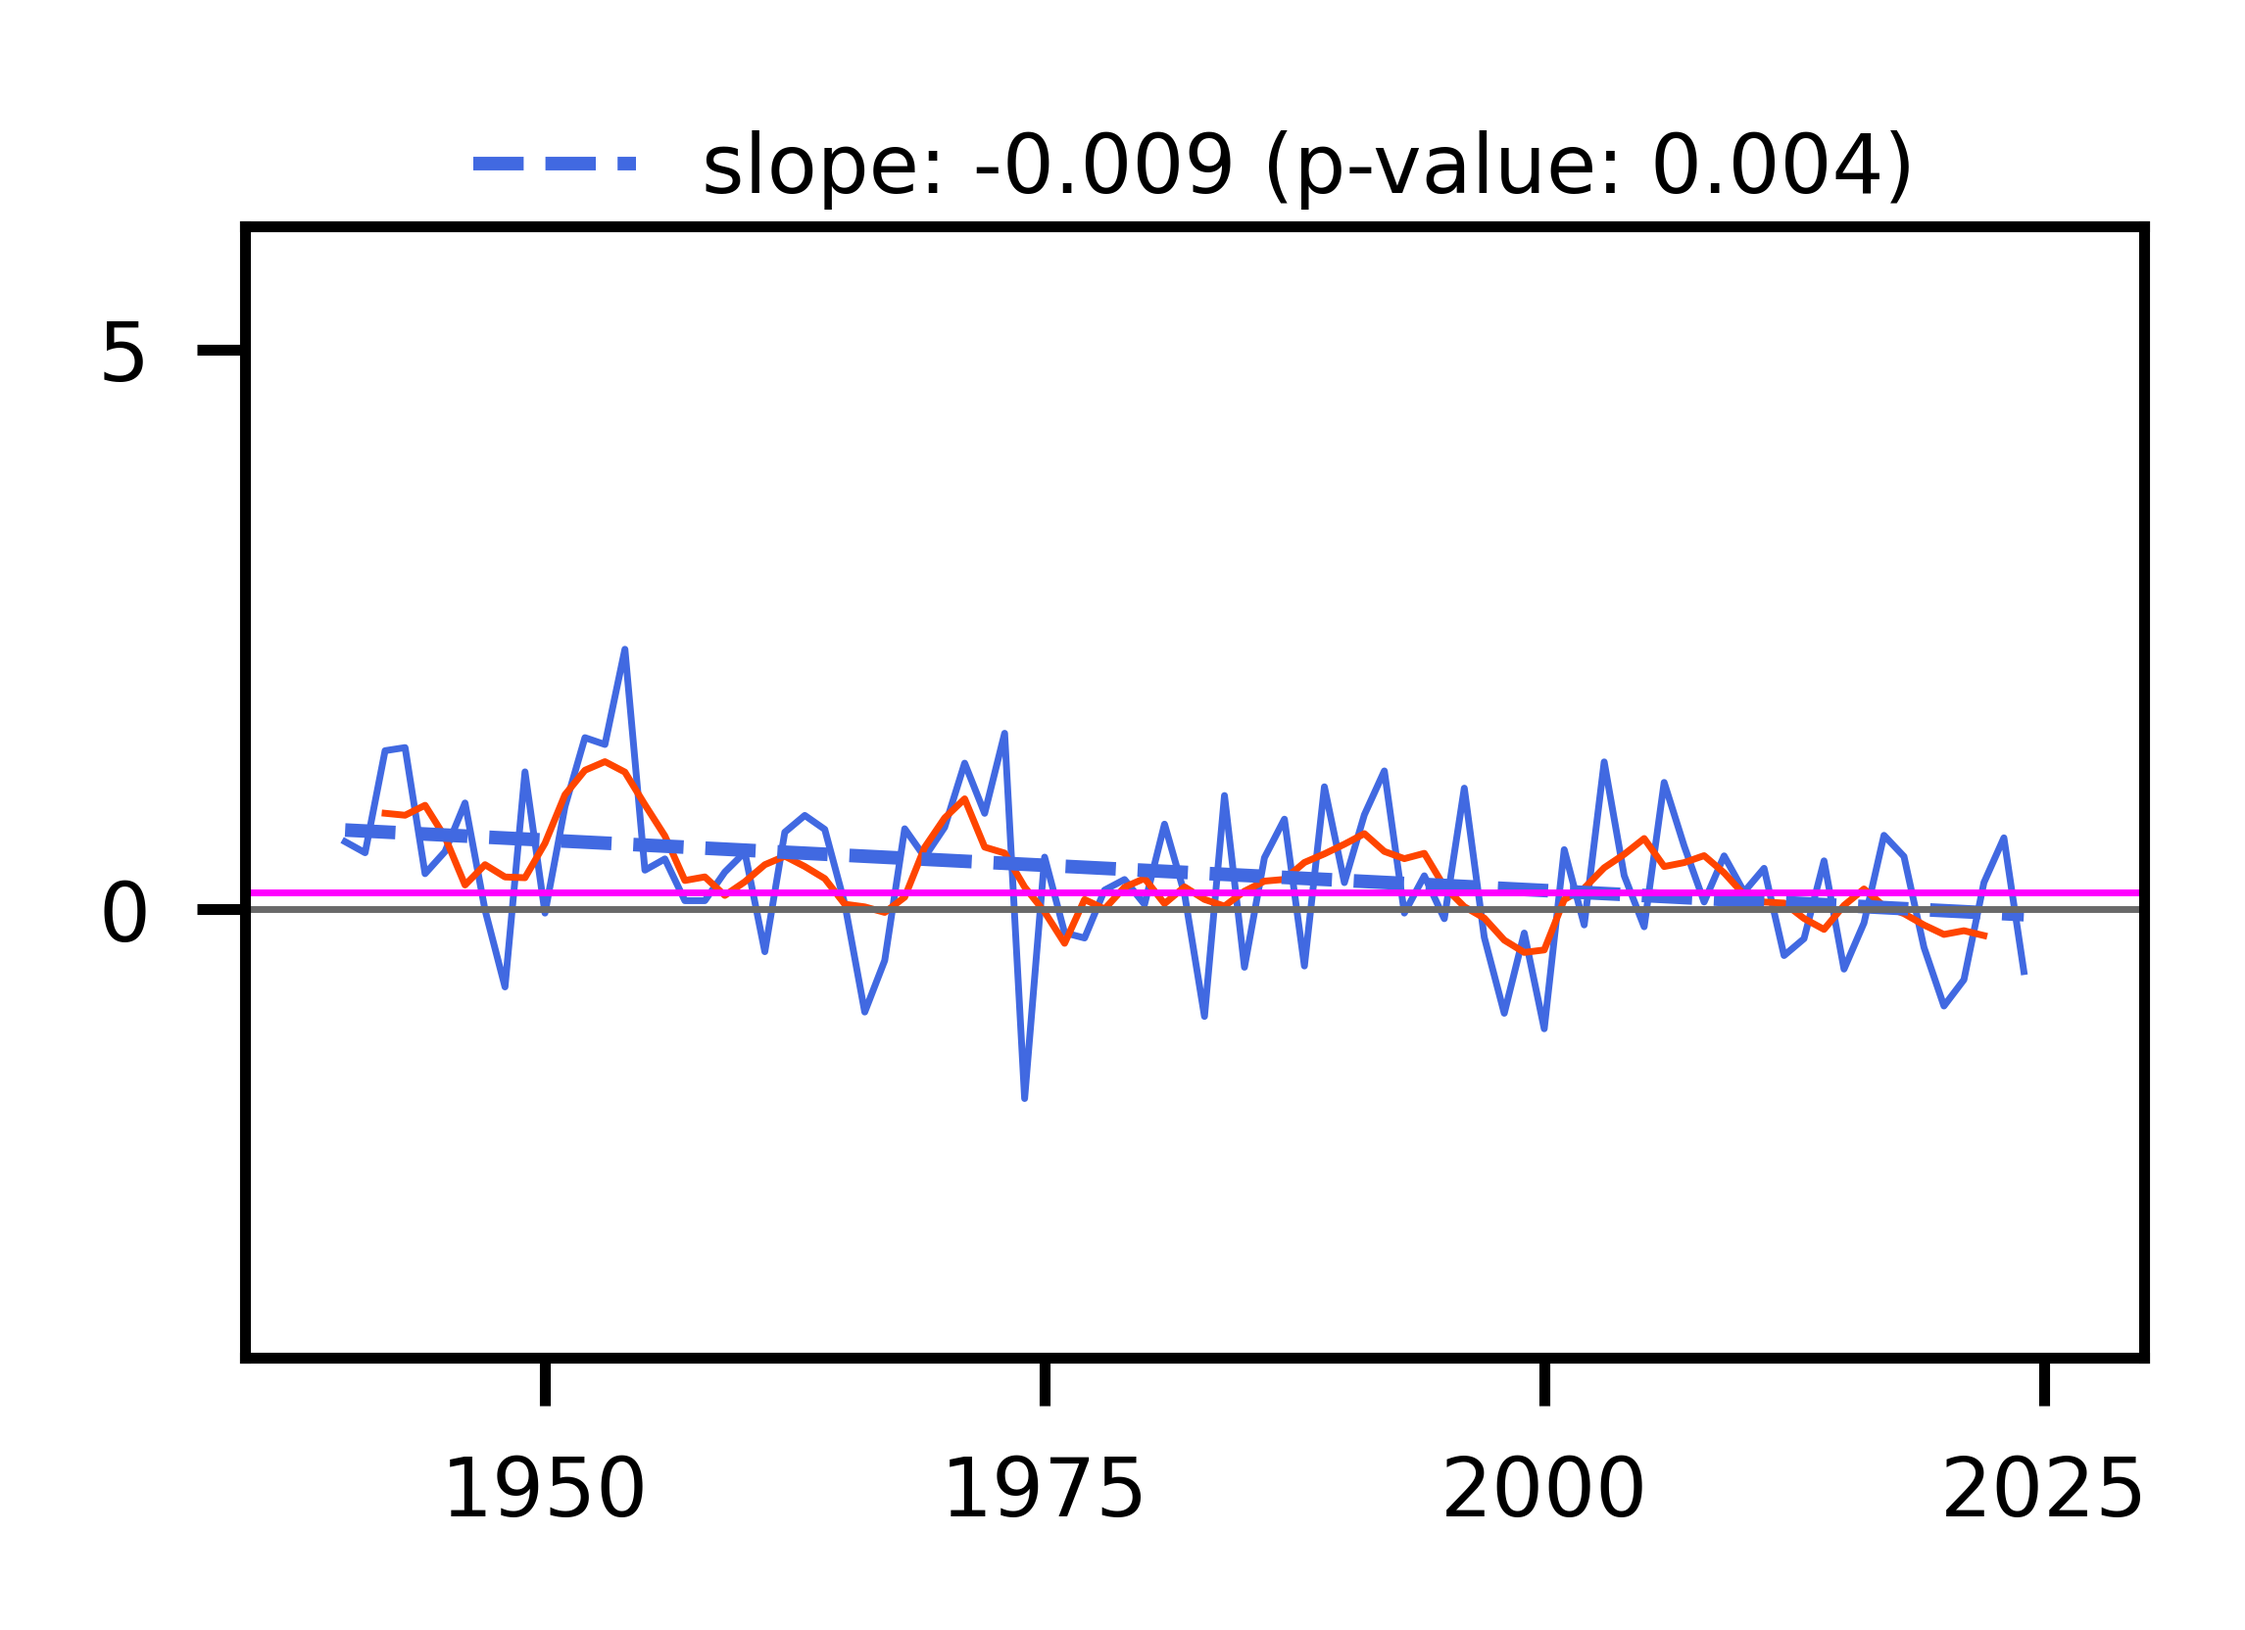
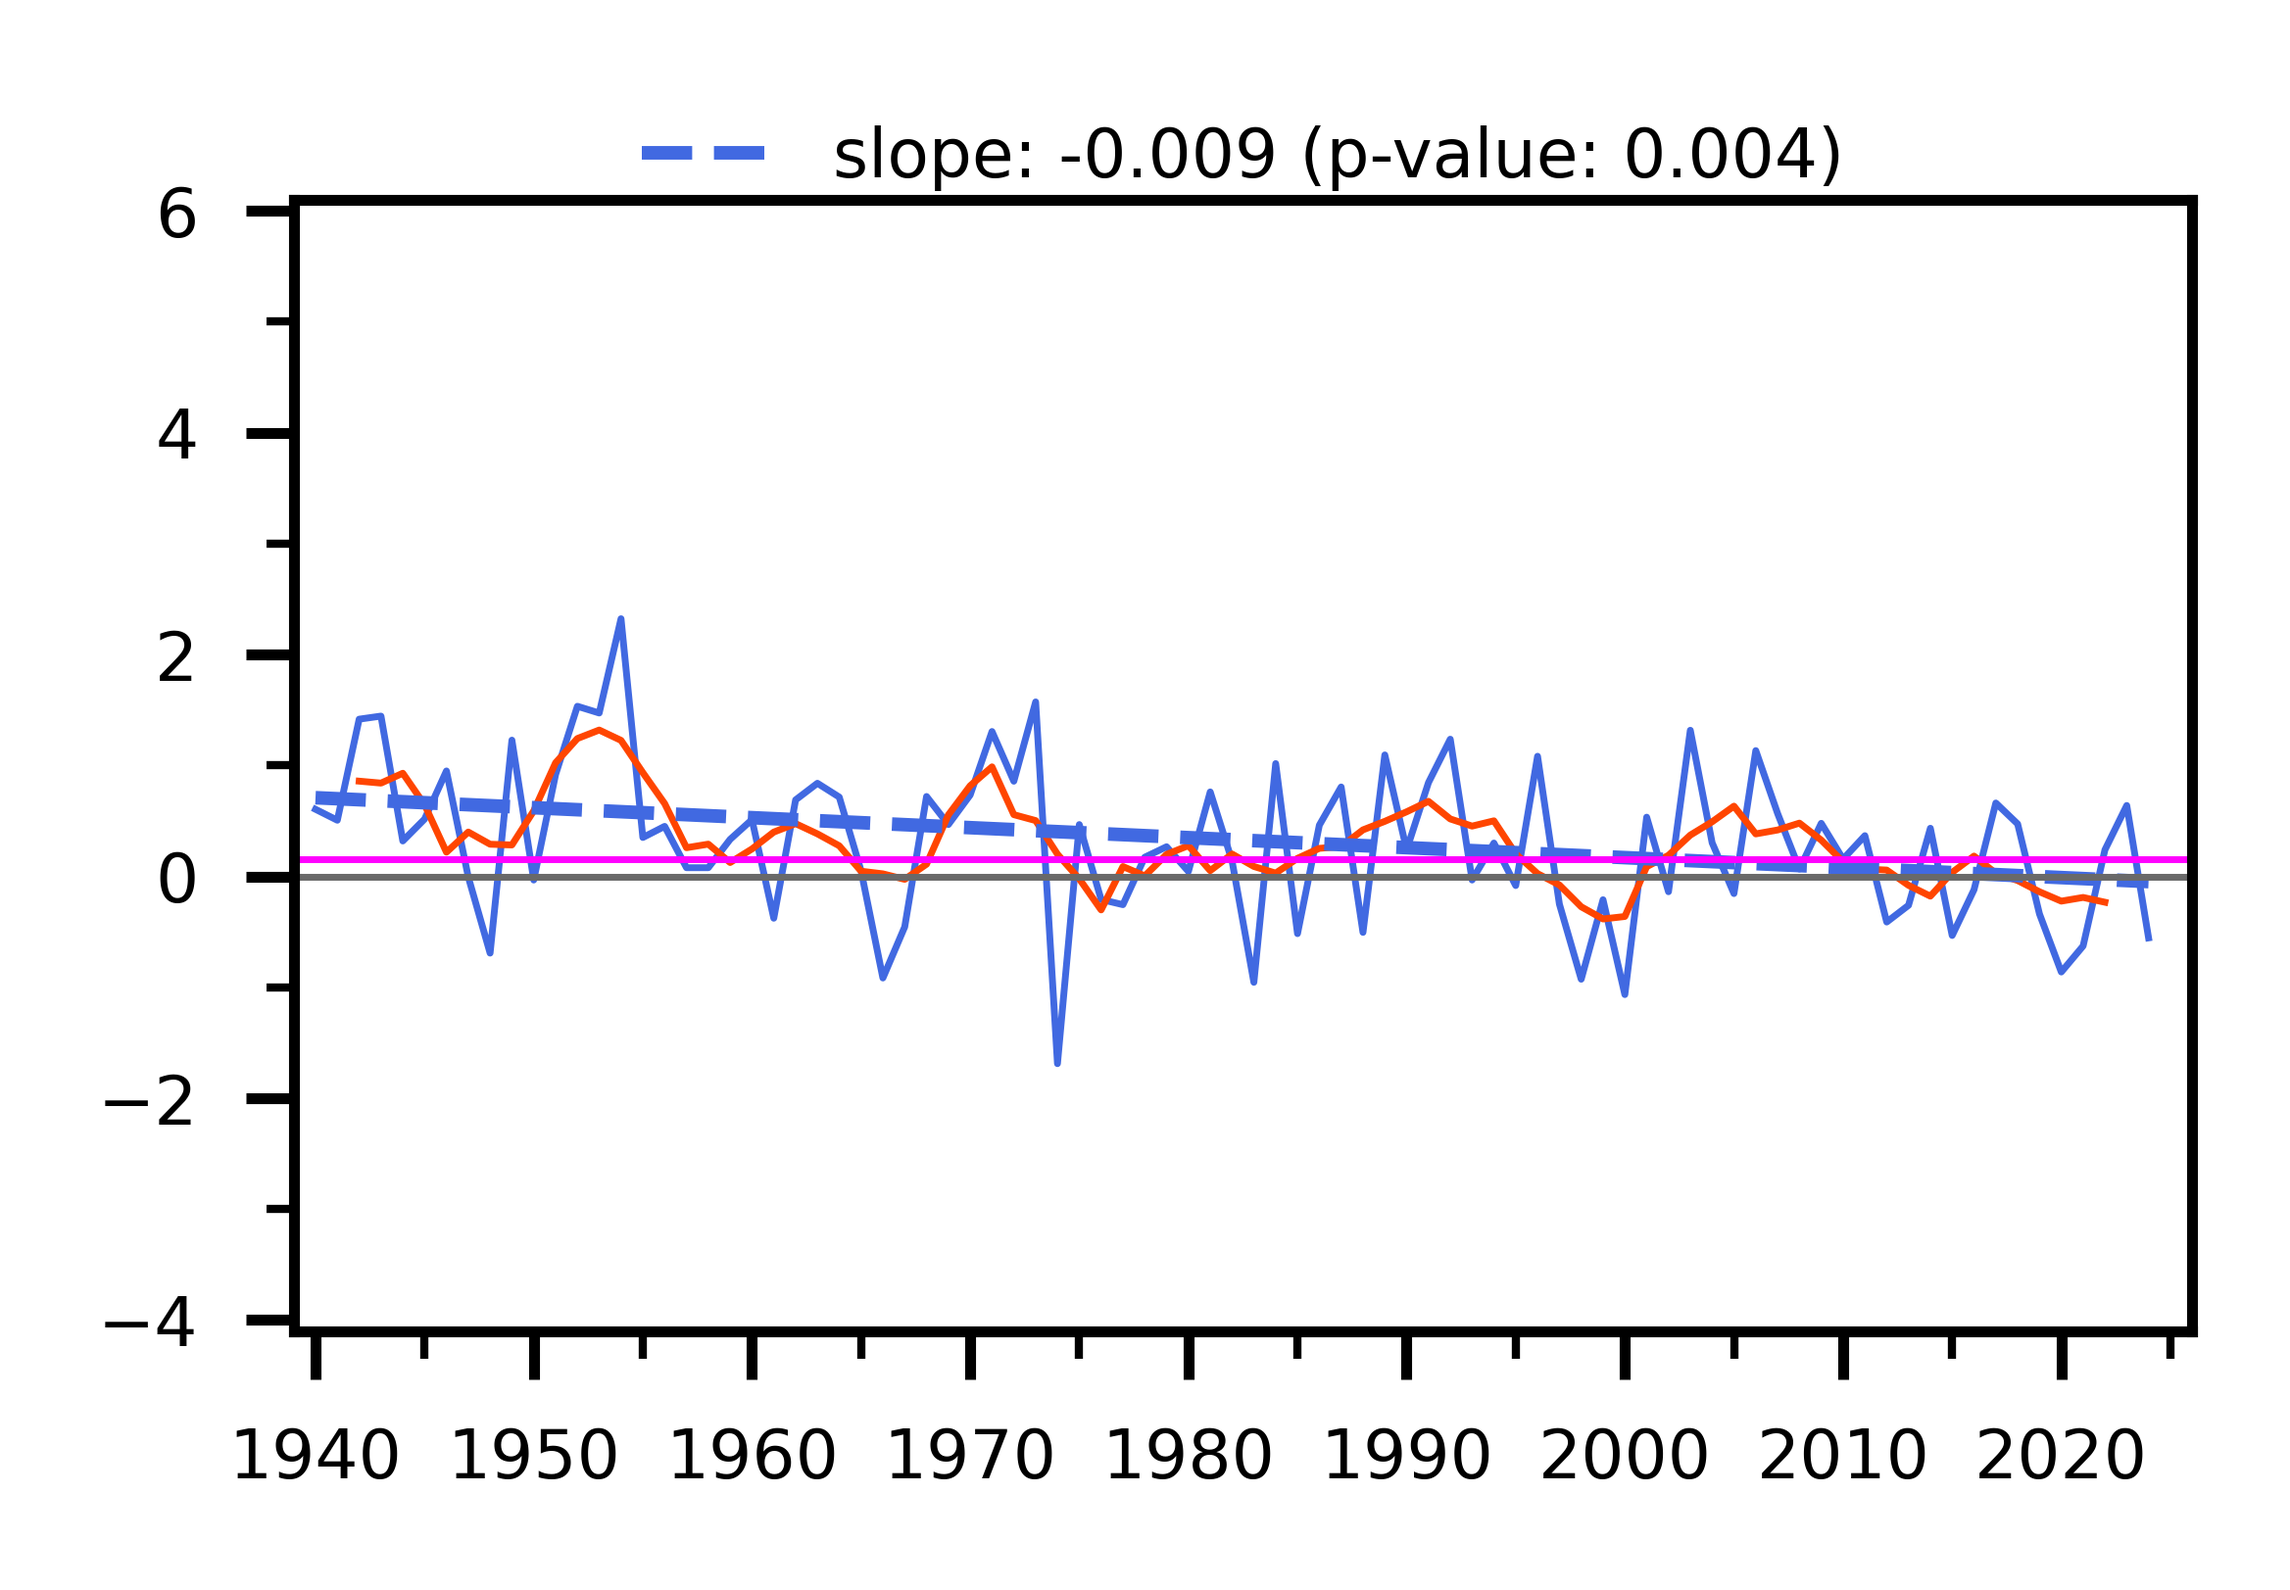
Added the trend plots, for different seasons, and different radiuses.

diff --git a/scripts/processed/11_plot_trend_pt.py b/scripts/processed/11_plot_trend_pt.py
@@ -30,7 +30,7 @@ np.set_printoptions(threshold=sys.maxsize) # to print full numpy arrays (useful 
 # dir_out (string): relative path of the directory containing the trend plots.
 
 # INPUT PARAMETERS
-year_s = 1979
+year_s = 1940
 year_f = 2024
 season_list = ["DJF", "MAM", "JJA", "SON"]
 radius_list = [500, 1000, 2000, 3000]
@@ -77,16 +77,30 @@ for season in season_list:
         plt.plot(year_list, curv_av, lw=0.5, color = "royalblue")
         plt.plot(year_list, running_mean_centered, lw=0.5, color = "orangered")
         plt.plot(year_list, trend_vals, "--", lw=1, color = "royalblue", label = label_vals)
-        plt.plot([1935, 2030], [curv_climate_pt, curv_climate_pt], color = "fuchsia", lw = 0.5)
-        plt.plot([1935, 2030], [0,0], lw = 0.5, color = "dimgray")
-        plt.xlim([1935, 2030])
-        plt.ylim([-4, 6.1])
-        plt.xticks(fontsize=6)
-        plt.yticks(fontsize=6)
-        plt.legend(loc="upper center", bbox_to_anchor=(0.5, 1.15), frameon=False, fontsize=6)
+        plt.plot([1939, 2026], [curv_climate_pt, curv_climate_pt], color = "fuchsia", lw = 0.5)
+        plt.plot([1939, 2026], [0,0], lw = 0.5, color = "dimgray")
+        plt.xlim([1939, 2026])
+        plt.ylim([-4.1, 6.1])
+        
+        decades_ticks = np.arange(1940, 2030, 10)
+        year_ticks = np.arange(1940, 2025+1, 5)
+        plt.gca().set_xticks(decades_ticks)
+        plt.gca().set_xticks(year_ticks, minor=True)
+        plt.gca().tick_params(axis='x', which='major', labelsize=5)
+        plt.gca().tick_params(axis='x', which='minor', length=2)
+
+        curv_major_ticks = np.arange(-4, 6+1, 2)
+        curv_minor_ticks = np.arange(-4, 6+1, 1)
+        plt.gca().set_yticks(curv_major_ticks)
+        plt.gca().set_yticks(curv_minor_ticks, minor=True)
+        plt.gca().tick_params(axis='y', which='major', labelsize=5)
+        plt.gca().tick_params(axis='y', which='minor', length=2)
+
+        plt.legend(loc="upper center", bbox_to_anchor=(0.5, 1.12), frameon=False, fontsize=5)
         
         # Saving the curv climatology plot
         dir_out_temp = f"{dir_out}/{name_pt}/{year_s}_{year_f}"
         os.makedirs(dir_out_temp, exist_ok=True)
         plt.savefig(f"{dir_out_temp}/trend_{season}_{radius}m.png", dpi=1000, bbox_inches='tight')
         plt.close()
+        exit()
